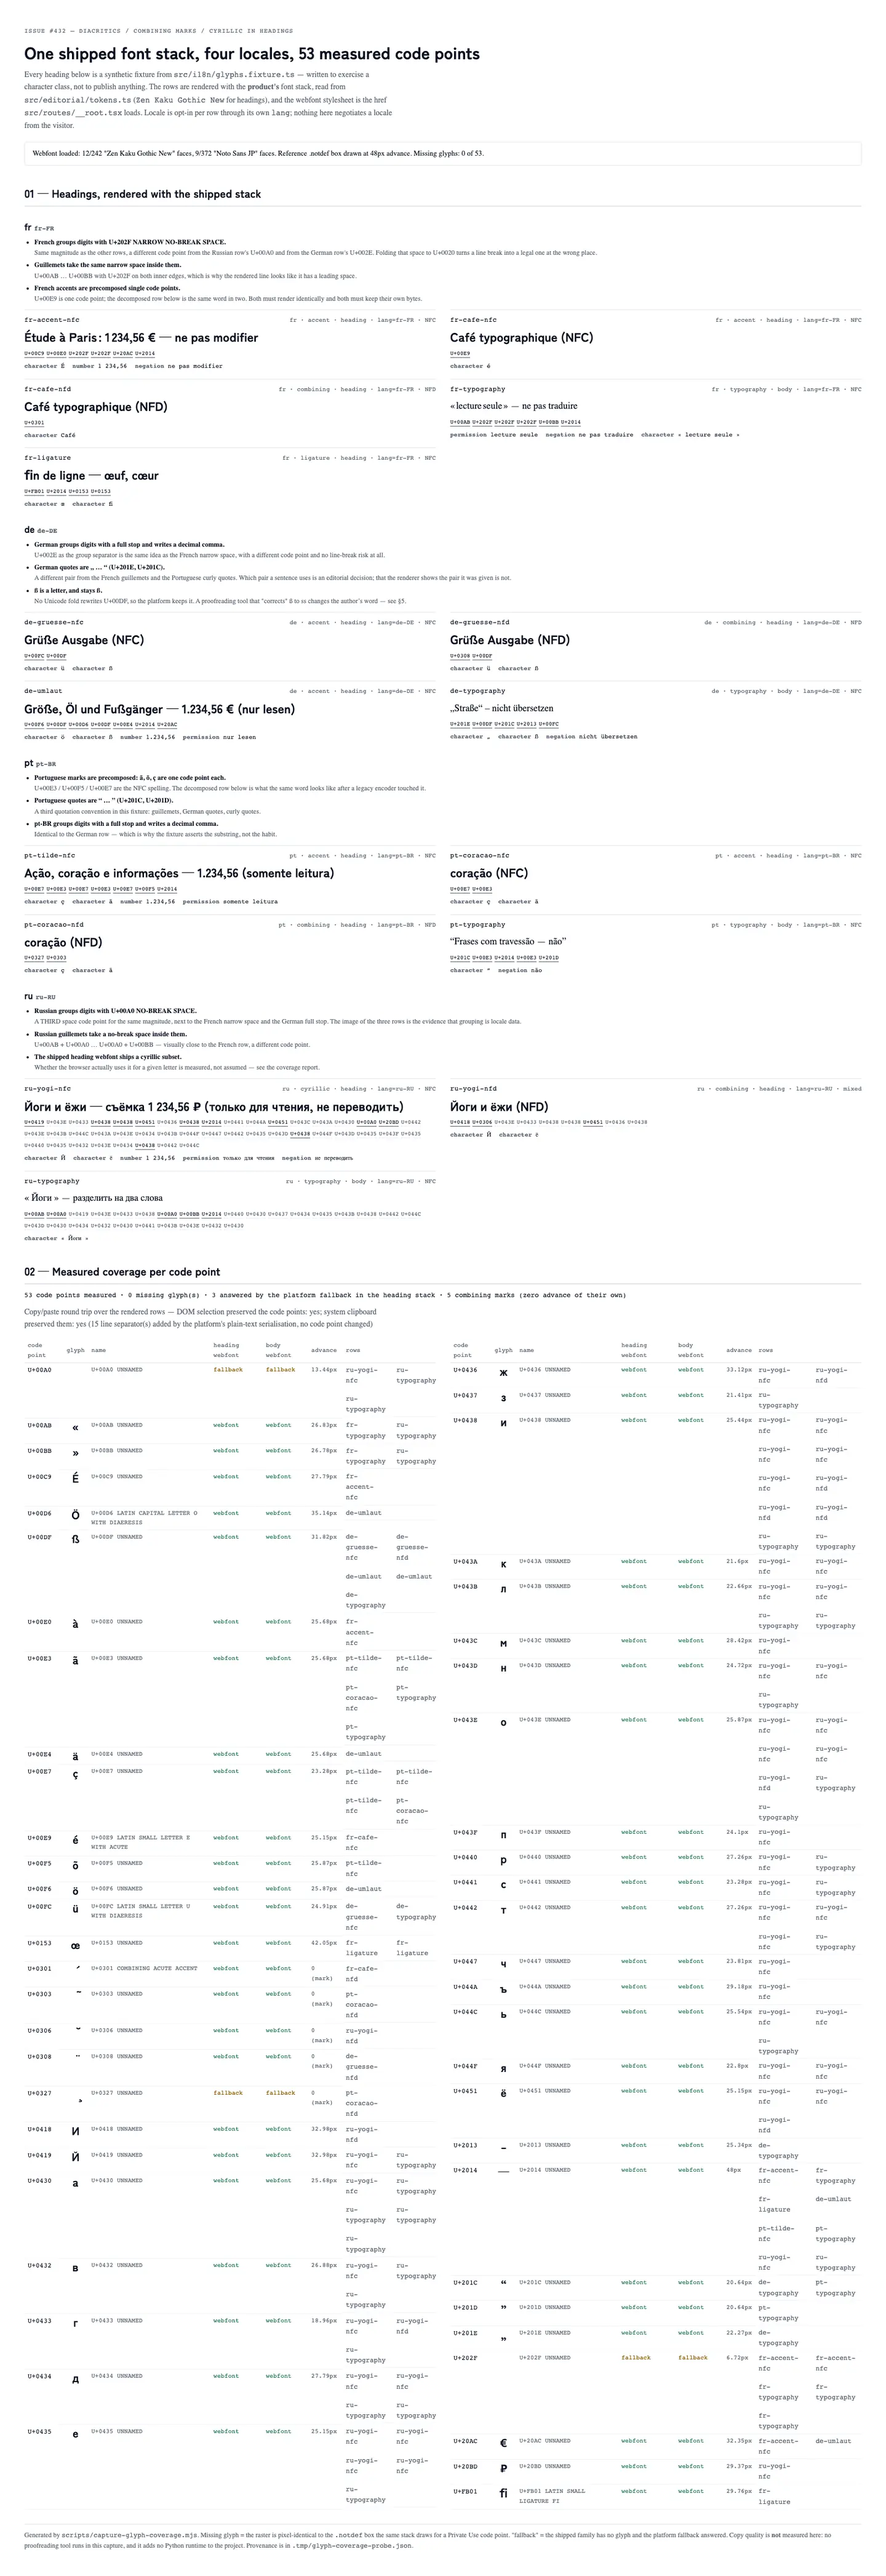
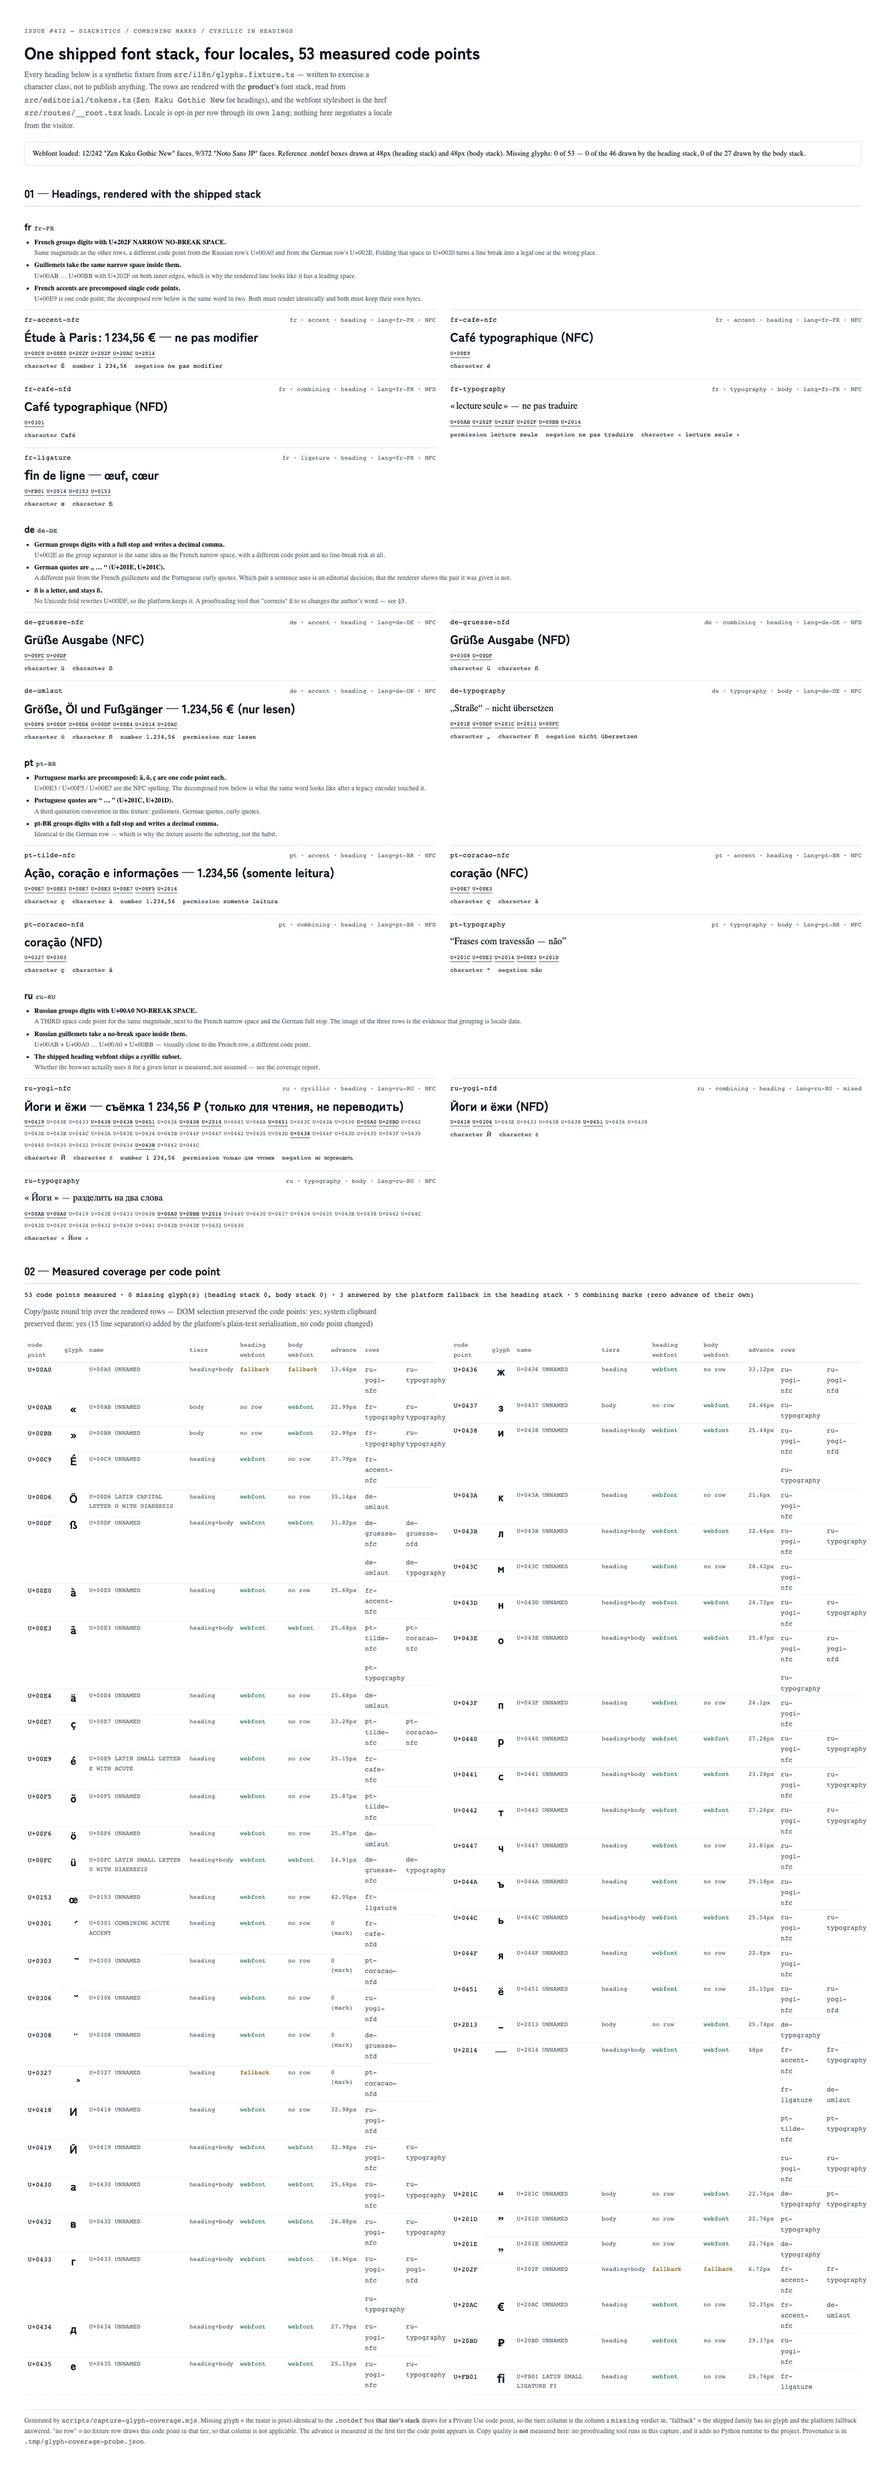
fix(i18n): judge glyph .notdef per tier and de-duplicate sample ids (#432)
The capture probe compared every code point against the HEADING stack's
.notdef box, so the seven code points that appear only in body-tier rows
were never judged by the stack that draws them: tofu in a body row would
still have printed "missing glyphs: 0" and exited 0.

- glyphCodePointUsage() de-duplicates sampleIds (one entry per row, not
  per occurrence) and carries the tiers each code point is rendered with.
- The probe takes one .notdef reference per tier and compares only the
  stacks that draw the code point. Banner, coverage table, stdout and the
  exit code all report per tier, and a tier with no row for a code point
  reads `no row` instead of a verdict.
- Guard tokens are pinned outside the fixture file, so editing a heading
  and its guard together fails the suite instead of passing as
  self-consistent.
- Regenerated docs/verification/i18n/diacritic-cyrillic-font.webp
  (1440x4018, 281 kB) and updated the report doc to the measured
  numbers: 0 missing in both tiers (heading 0/46, body 0/27).

diff --git a/src/i18n/glyphs.test.ts b/src/i18n/glyphs.test.ts
@@ -55,6 +55,68 @@ const FOLD_AFFECTED_GUARDS = [
 	'ru-number',
 ];
 
+/**
+ * Every guard token, pinned HERE rather than only in the fixture.
+ *
+ * `keeps every guard token inside its own heading` can only catch an
+ * edit to ONE side of the pair: guard and heading live in the same
+ * literal, so a "correction" that rewrote both — a U+202F turned into a
+ * plain space in the row AND in the guard — would pass every other
+ * assertion. Pinning the bytes outside the fixture file is what makes
+ * the domain document's "a proofread that touches a guard fails the
+ * suite" claim a fact instead of a self-consistency check: the change
+ * then has to be made in two files, and a reviewer sees both.
+ *
+ * Escapes, like the fixture. No non-ASCII literal appears in a source
+ * file unless a policy asks for it.
+ */
+const EXPECTED_GUARD_TOKENS: Record<string, string> = {
+	// fr
+	'fr-accent-e': '\u00C9',
+	'fr-cafe-nfc-accent': '\u00E9',
+	'fr-cafe-nfd-mark': 'Cafe\u0301',
+	'fr-fi-ligature': '\uFB01',
+	'fr-guillemets': '\u00AB\u202Flecture\u202Fseule\u202F\u00BB',
+	'fr-negation': 'ne pas modifier',
+	'fr-negation-2': 'ne pas traduire',
+	'fr-number': '1\u202F234,56',
+	'fr-oe': '\u0153',
+	'fr-permission': 'lecture\u202Fseule',
+	// de
+	'de-diaeresis': 'u\u0308',
+	'de-negation': 'nicht \u00FCbersetzen',
+	'de-number': '1.234,56',
+	'de-o-umlaut': '\u00F6',
+	'de-permission': 'nur lesen',
+	'de-quote-open': '\u201E',
+	'de-sharp-s': '\u00DF',
+	'de-sharp-s-nfc': '\u00DF',
+	'de-sharp-s-nfd': '\u00DF',
+	'de-sharp-s-quoted': '\u00DF',
+	'de-u-umlaut-nfc': '\u00FC',
+	// pt
+	'pt-cedilla': '\u00E7',
+	'pt-cedilla-mark': 'c\u0327',
+	'pt-cedilla-nfc': '\u00E7',
+	'pt-negation': 'n\u00E3o',
+	'pt-number': '1.234,56',
+	'pt-permission': 'somente leitura',
+	'pt-quote-pair': '\u201C',
+	'pt-tilde-a': '\u00E3',
+	'pt-tilde-mark': 'a\u0303',
+	'pt-tilde-nfc': '\u00E3',
+	// ru
+	'ru-breve': '\u0418\u0306',
+	'ru-cyrillic-i': '\u0419',
+	'ru-guillemets': '\u00AB\u00A0\u0419\u043E\u0433\u0438\u00A0\u00BB',
+	'ru-negation': '\u043D\u0435 \u043F\u0435\u0440\u0435\u0432\u043E\u0434\u0438\u0442\u044C',
+	'ru-number': '1\u00A0234,56',
+	'ru-permission':
+		'\u0442\u043E\u043B\u044C\u043A\u043E \u0434\u043B\u044F \u0447\u0442\u0435\u043D\u0438\u044F',
+	'ru-yo': '\u0451',
+	'ru-yo-nfd': '\u0451',
+};
+
 /** HTML escaping, the way the report and any SSR renderer does it. */
 function escapeHtml(value: string): string {
 	return value
@@ -136,6 +198,16 @@ describe('glyph fixture - the four claims that must survive', () => {
 			for (const guard of sample.guards) {
 				expect(sample.heading.includes(guard.token), `${sample.id} / ${guard.id}`).toBe(true);
 			}
+		}
+	});
+
+	it('pins every guard token outside the fixture, byte-exact', () => {
+		const guards = glyphSamples().flatMap((sample) => sample.guards);
+		const ids = guards.map((guard) => guard.id);
+		expect(new Set(ids).size, 'guard ids must be unique').toBe(ids.length);
+		expect([...ids].sort()).toEqual(Object.keys(EXPECTED_GUARD_TOKENS).sort());
+		for (const guard of guards) {
+			expect(guard.token, guard.id).toBe(EXPECTED_GUARD_TOKENS[guard.id]);
 		}
 	});
 
@@ -242,6 +314,12 @@ describe('glyph fixture - authored forms and code points', () => {
 			expect(entry.hex).toBe(`U+${entry.codePoint.toString(16).toUpperCase().padStart(4, '0')}`);
 			expect(String.fromCodePoint(entry.codePoint)).toBe(entry.char);
 			expect(entry.sampleIds.length).toBeGreaterThan(0);
+			// A row is a row. A code point repeated five times inside ONE
+			// heading is one sample, so the work list must not count
+			// occurrences — the report's rows column would repeat the row
+			// name and any consumer reading `sampleIds.length` as a row
+			// count would be reading a number about nothing.
+			expect(new Set(entry.sampleIds).size, entry.hex).toBe(entry.sampleIds.length);
 			for (const id of entry.sampleIds) expect(ids.has(id)).toBe(true);
 			expect(entry.focuses.length).toBeGreaterThan(0);
 		}
@@ -252,6 +330,34 @@ describe('glyph fixture - authored forms and code points', () => {
 		for (const sample of glyphSamples()) {
 			for (const claimed of sample.probe) expect(measured.has(claimed)).toBe(true);
 		}
+	});
+
+	it('attributes every code point to the tiers its rows render with', () => {
+		const usage = glyphCodePointUsage();
+		// The fixture has to exercise BOTH tiers, or a tier-aware
+		// measurement has nothing to be tier-aware about.
+		expect([...new Set(glyphSamples().map((sample) => sample.tier))].sort()).toEqual([
+			'body',
+			'heading',
+		]);
+		for (const entry of usage) {
+			const samples = entry.sampleIds.map((id) => {
+				const sample = glyphSampleById(id);
+				if (!sample) throw new Error(`${entry.hex} names an unknown sample ${id}`);
+				return sample;
+			});
+			expect([...entry.tiers].sort(), entry.hex).toEqual(
+				[...new Set(samples.map((sample) => sample.tier))].sort(),
+			);
+			// One entry per row, and the rows are exactly the ones whose
+			// heading carries the character.
+			const carrying = glyphSamples().filter((sample) => sample.heading.includes(entry.char));
+			expect(entry.sampleIds, entry.hex).toEqual(carrying.map((sample) => sample.id));
+		}
+		// And at least one code point lives ONLY in body rows: that is the
+		// case a heading-stack-only `.notdef` comparison would judge
+		// against a stack that never draws it.
+		expect(usage.some((entry) => entry.tiers.length === 1 && entry.tiers[0] === 'body')).toBe(true);
 	});
 
 	it('flags the combining marks that need a face shaped for the base letter', () => {

diff --git a/src/i18n/glyphs.fixture.ts b/src/i18n/glyphs.fixture.ts
@@ -110,6 +110,18 @@ export interface GlyphGuard {
  */
 export type GlyphForm = 'NFC' | 'NFD' | 'mixed';
 
+/**
+ * Which tier of the shipped type scale renders a sample.
+ *
+ * A tier is a TYPE TIER, never a font: the stacks stay owned by
+ * `src/editorial/tokens.ts`. The tier is what tells a measurement which
+ * stack the row is drawn with, because the heading tier and the body
+ * tier are two DIFFERENT stacks — a code point that appears only in body
+ * rows has to be judged against the body stack's `.notdef`, or the
+ * verdict is about a stack that never drew it.
+ */
+export type GlyphTier = 'heading' | 'body';
+
 export interface GlyphHeadingSample {
 	readonly id: string;
 	readonly locale: GlyphLocale;
@@ -117,7 +129,7 @@ export interface GlyphHeadingSample {
 	readonly lang: string;
 	readonly focus: GlyphFocus;
 	/** Which tier of the shipped type scale renders this sample. */
-	readonly tier: 'heading' | 'body';
+	readonly tier: GlyphTier;
 	/** The display text exactly as an author wrote it. */
 	readonly heading: string;
 	readonly form: GlyphForm;
@@ -767,9 +779,24 @@ export interface GlyphCodePointUsage {
 	readonly codePoint: number;
 	/** The character itself — a combining mark is a character on its own. */
 	readonly char: string;
+	/**
+	 * The samples it appears in, once each, in table order.
+	 *
+	 * A ROW, not an occurrence: a code point repeated five times inside
+	 * one heading is still one sample, because the consumers of this
+	 * list (the report's rows column, a coverage count) count rows.
+	 */
 	readonly sampleIds: readonly string[];
 	/** Scripts / classes the code point belongs to, as the fixture claims them. */
 	readonly focuses: readonly GlyphFocus[];
+	/**
+	 * The tiers its samples render with, in table order.
+	 *
+	 * The measurement reads this to decide which stack owns the code
+	 * point: `['body']` means only the body stack ever draws it, so only
+	 * the body stack's `.notdef` can call it missing.
+	 */
+	readonly tiers: readonly GlyphTier[];
 	/** True when the character is a combining mark (zero advance of its own). */
 	readonly combining: boolean;
 }
@@ -785,14 +812,25 @@ export interface GlyphCodePointUsage {
  * "renders fine" would bury the four rows that do not.
  */
 export function glyphCodePointUsage(): readonly GlyphCodePointUsage[] {
-	const usage = new Map<number, { sampleIds: string[]; focuses: Set<GlyphFocus> }>();
+	const usage = new Map<
+		number,
+		{ sampleIds: string[]; focuses: Set<GlyphFocus>; tiers: Set<GlyphTier> }
+	>();
 	for (const sample of glyphSamples()) {
 		for (const character of sample.heading) {
 			const codePoint = character.codePointAt(0);
 			if (codePoint === undefined || codePoint <= 0x7f) continue;
-			const entry = usage.get(codePoint) ?? { sampleIds: [], focuses: new Set<GlyphFocus>() };
-			entry.sampleIds.push(sample.id);
+			const entry = usage.get(codePoint) ?? {
+				sampleIds: [],
+				focuses: new Set<GlyphFocus>(),
+				tiers: new Set<GlyphTier>(),
+			};
+			// Table order, one entry per ROW: the same letter appearing
+			// three times in one heading is one sample, and a list of
+			// occurrences would make every row count a row over.
+			if (!entry.sampleIds.includes(sample.id)) entry.sampleIds.push(sample.id);
 			entry.focuses.add(sample.focus);
+			entry.tiers.add(sample.tier);
 			usage.set(codePoint, entry);
 		}
 	}
@@ -806,6 +844,7 @@ export function glyphCodePointUsage(): readonly GlyphCodePointUsage[] {
 				char: String.fromCodePoint(codePoint),
 				sampleIds: entry.sampleIds,
 				focuses: [...entry.focuses],
+				tiers: [...entry.tiers],
 				// Combining marks live in the Mn block; the platform's own
 				// curated table is the authority for names, so this is a
 				// range check rather than a second name table.

diff --git a/src/i18n/index.ts b/src/i18n/index.ts
@@ -78,6 +78,7 @@ export {
 	GLYPH_LOCALES,
 	type GlyphLocale,
 	type GlyphLocaleFixture,
+	type GlyphTier,
 	glyphCodePointUsage,
 	glyphSampleById,
 	glyphSampleCodePoints,

diff --git a/docs/verification/i18n/README.md b/docs/verification/i18n/README.md
@@ -121,9 +121,13 @@ heading-glyph measurement report. It renders the 16 rows of
 `src/i18n/glyphs.fixture.ts` (French / German / Portuguese / Russian)
 with the **shipped** font stack, then measures every non-ASCII code
 point the fixture carries: whether it renders as `.notdef` (a missing
-glyph), whether the shipped webfont supplies it, and whether a
-selection plus a system-clipboard round trip preserves the author's
-code points. The report, the measured numbers, the reproduction
+glyph) **in the tier that actually draws it** — a code point that only
+appears in body rows is judged against the body stack, because the
+heading stack never draws it — whether the shipped webfont supplies it,
+and whether a selection plus a system-clipboard round trip preserves
+the author's code points. A column whose tier has no row for a code
+point reads `no row` rather than a verdict: coverage evidence for a
+rendering that does not exist would be worse than no evidence. The report, the measured numbers, the reproduction
 commands and the **out-of-scope list** are in
 [`diacritic-cyrillic-font.md`](diacritic-cyrillic-font.md).
 
@@ -143,9 +147,9 @@ is `src/i18n/glyphs.test.ts` and runs in CI. Storybook shows the same
 fixture as `editorial/Glyph headings`.
 
 The capture exits non-zero when the webfont did not load, when a code
-point renders as `.notdef`, when a verdict cell could not be filled,
-or when the copy/paste round trip changed a code point — an artefact
-that measured nothing must not look complete.
+point renders as `.notdef` in any tier that draws it, when a verdict
+cell could not be filled, or when the copy/paste round trip changed a
+code point — an artefact that measured nothing must not look complete.
 
 ## Why a committed binary
 

diff --git a/docs/domain/i18n.md b/docs/domain/i18n.md
@@ -98,10 +98,12 @@ Issue #433 はこの 2 つを明確に分離する。
 
 Issue #432 は、この分離を**タイポグラフィ側で実測する**チケットである。`src/i18n/glyphs.fixture.ts` は
 fr / de / pt / ru の見出し fixture で、`accent` / `combining` / `ligature` / `cyrillic` / `typography` の
-各 focus と、**数値・否定・権限・文字**の guard を持つ。guard は行内 substring として固定され
-（`src/i18n/glyphs.test.ts`）、校正がそれに触れるとテストが落ちるので公開できない。
+各 focus と、**数値・否定・権限・文字**の guard を持つ。guard は行内 substring として固定され、
+さらに token 自体を `src/i18n/glyphs.test.ts`（fixture の外）にも escape で pin してある
+（`src/i18n/glyphs.test.ts`）。校正が fixture 側かテスト側のどちらかに触れるとテストが落ちるので公開できない。
 
 - font stack は `src/editorial/` が所有する。fixture は **tier 名だけ**を宣言し、`font-family` を持たない。
+  実測は `.notdef` を **tier ごと**に判定する（その code point を描く stack だけ）。
 - 引用符・空白・group separator は locale データであり、文字は copy である。同じ `1 234,56` の
   group separator が fr = U+202F / ru = U+00A0 / de・pt = U+002E 正是因为、前二者は
   **互換正規化で U+0020 に落ちる**（意味は変えないので「無害」に見えるが、折り返し位置が変わる）。
